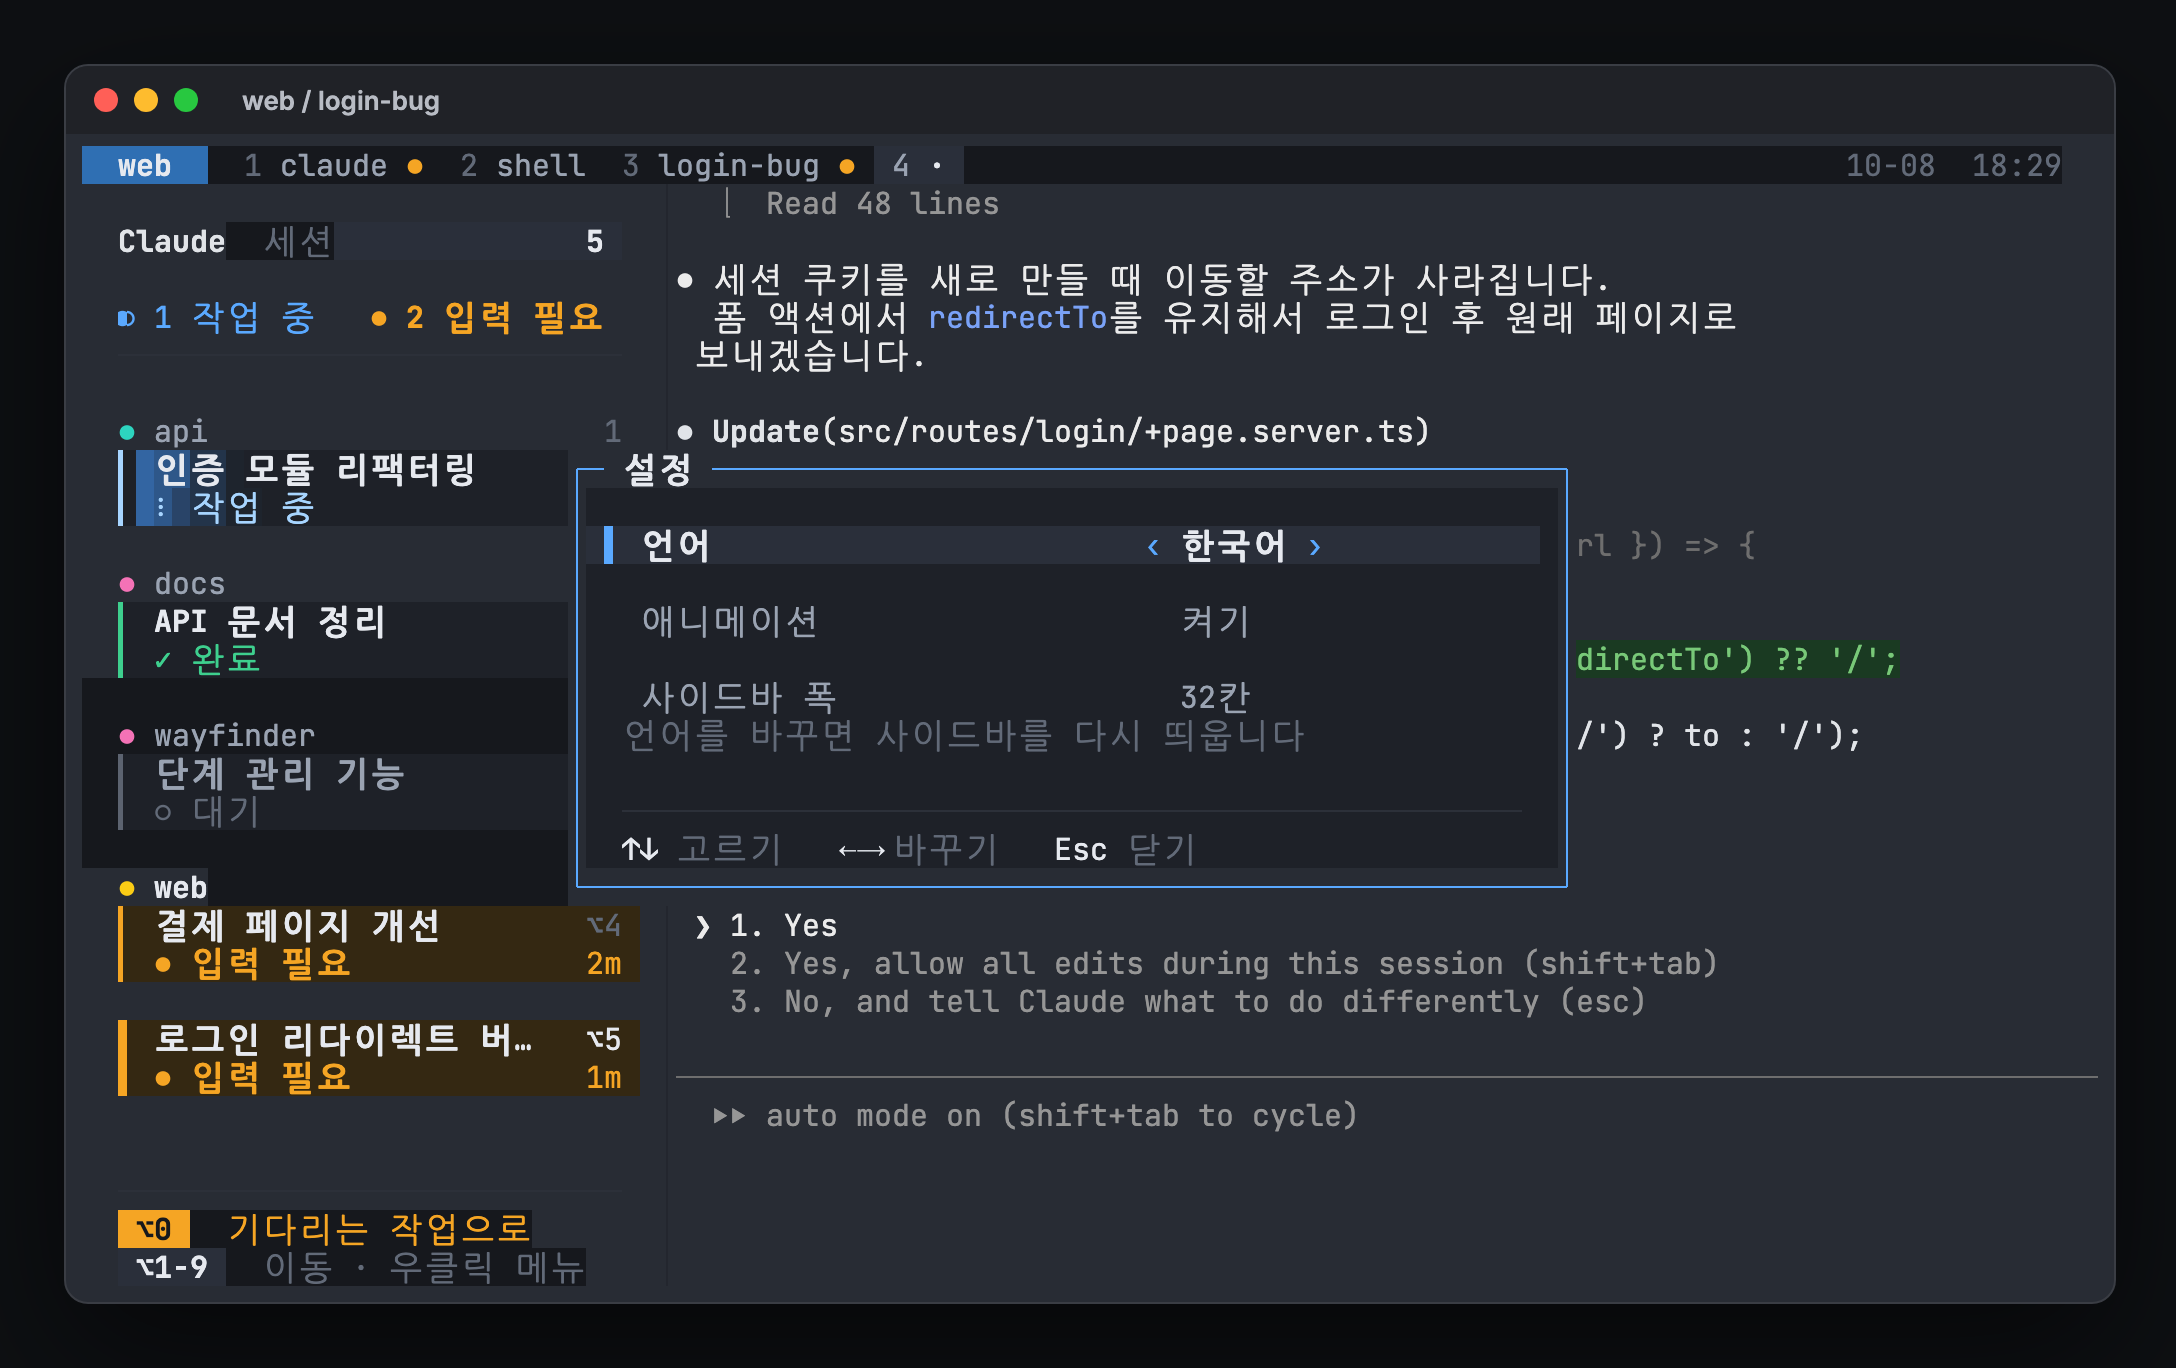
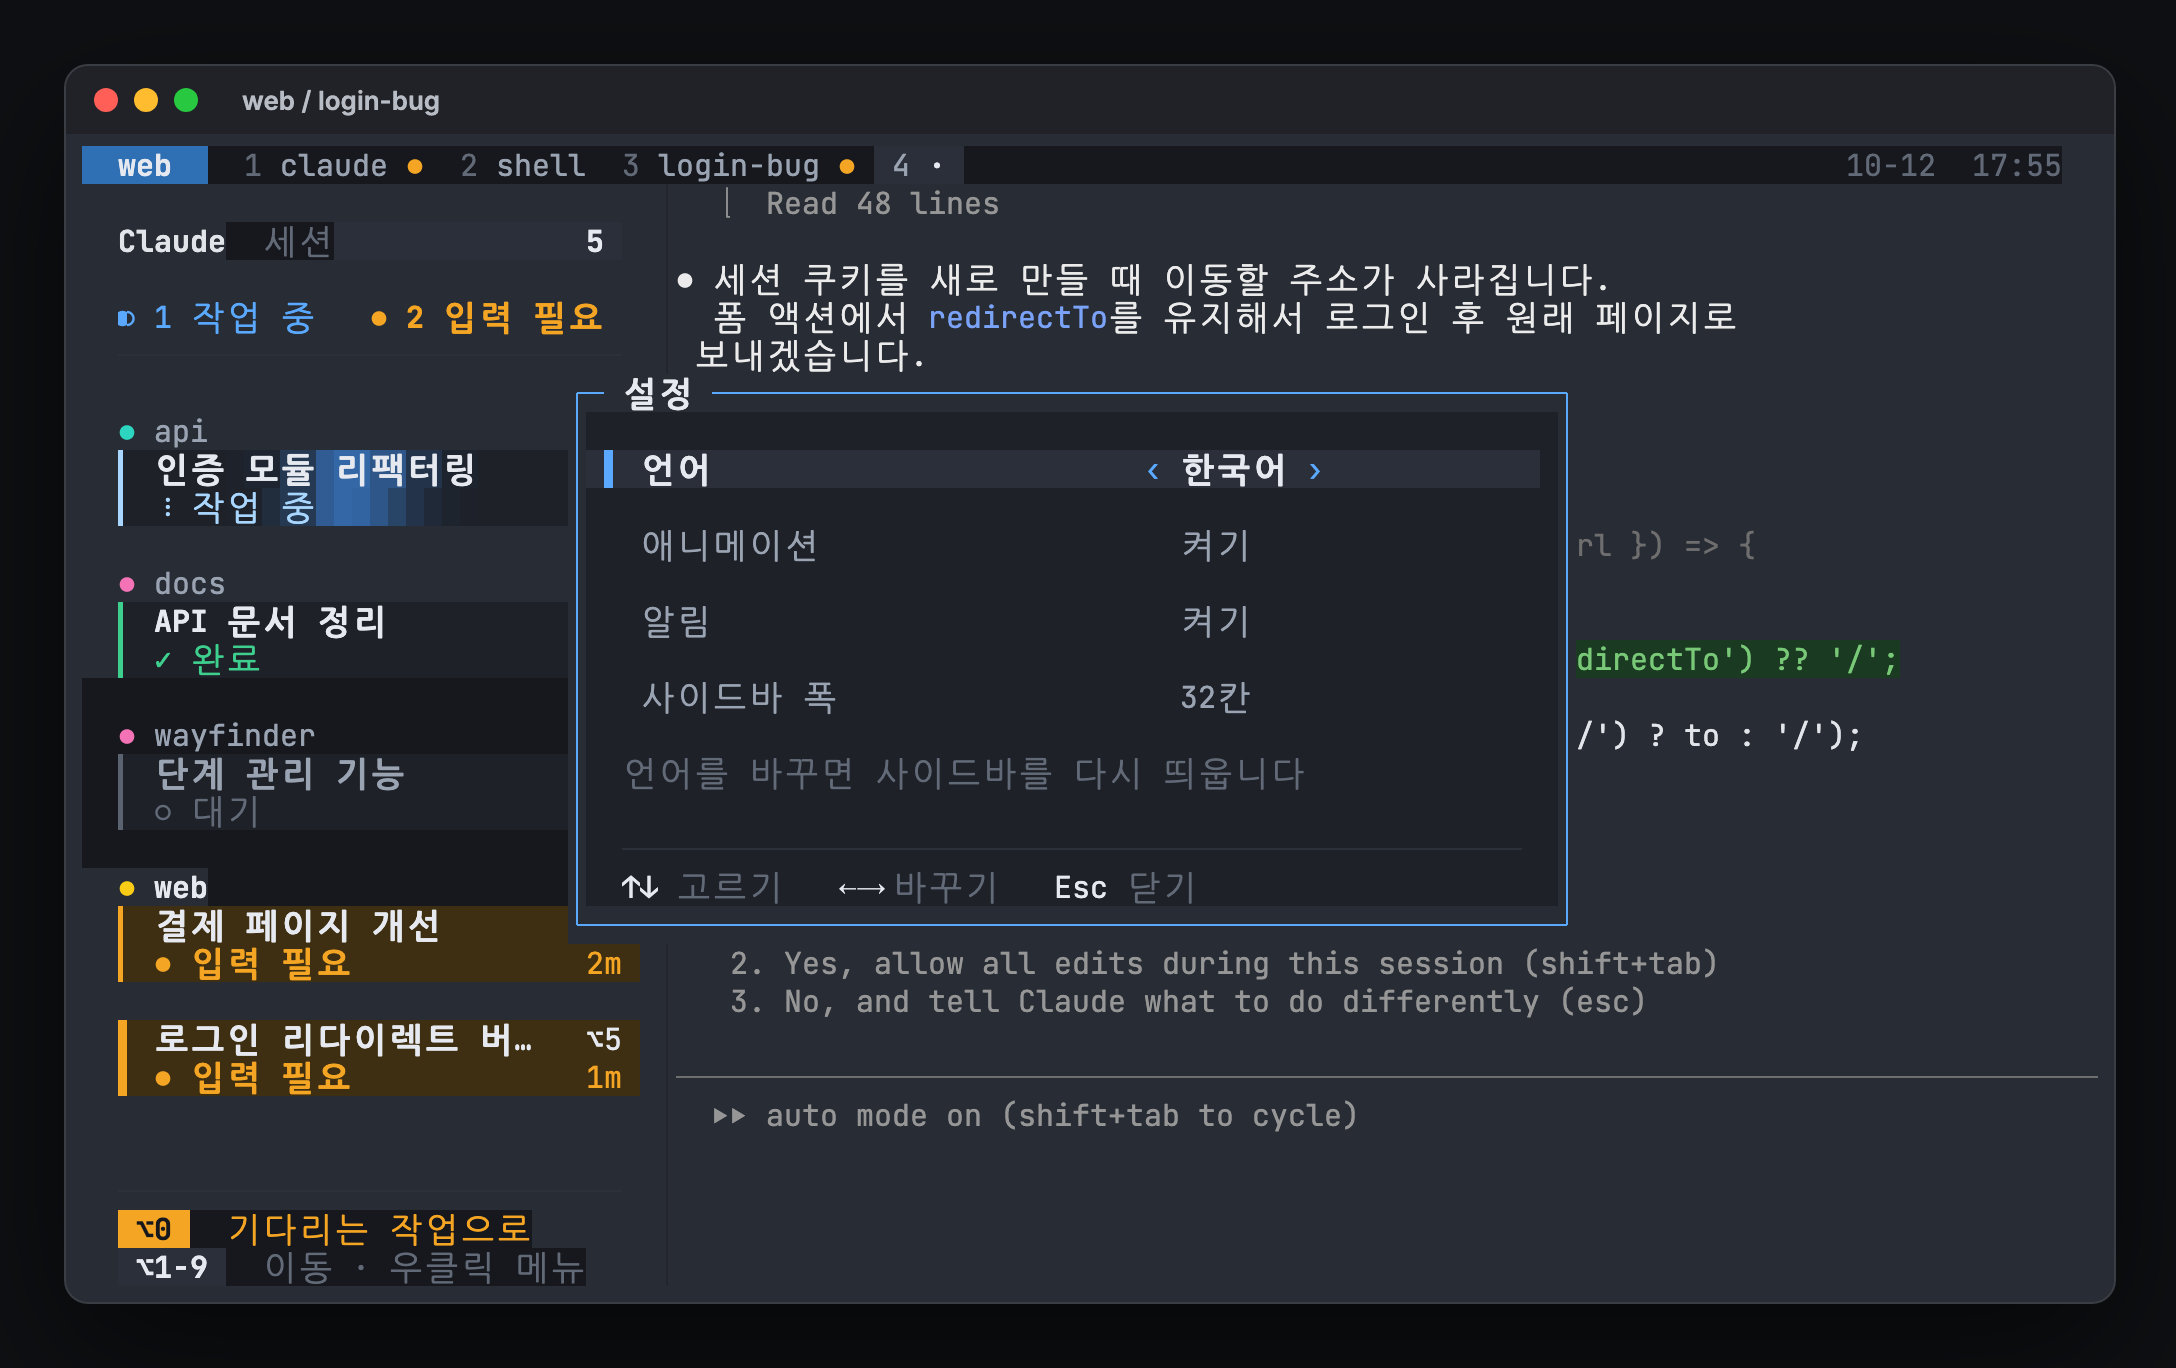
Desktop notifications when a task needs input or finishes
The sidebar on screen sends OSC 777 through tmux passthrough, so the
terminal showing it (also over ssh) raises a macOS notification. Tasks in
a window you are looking at are left out. Settings gets an on/off row.

Claude-Session: https://claude.ai/code/session_012xQmmR8ivhkZoqBh8nTTB9

diff --git a/docs/guide.html b/docs/guide.html
@@ -495,7 +495,7 @@ claude -c
       <div class="key"><span class="combo">카드 더블클릭</span><span class="d">작업 이름 바꾸기</span></div>
       <div class="key"><span class="combo">오른쪽 클릭</span><span class="d">메뉴. 작업 카드: 이동, 이름 바꾸기, 위로 / 아래로 옮기기, 이 프로젝트에 새 Claude, 새 프로젝트. 프로젝트 이름 줄: 이름 바꾸기, 새 Claude, 새 프로젝트. 빈 곳: 새 프로젝트. 모든 메뉴 맨 아래에 설정. 마우스를 올리면 강조되고 클릭하면 실행. <kbd>↑</kbd> <kbd>↓</kbd>와 <kbd>Enter</kbd>, 괄호 안 글자로도 고름. <kbd>Esc</kbd>나 바깥 클릭으로 닫힘</span></div>
       <div class="key"><span class="combo">메뉴 → 새 프로젝트</span><span class="d">가운데 폴더 탐색 창이 열림. <kbd>Enter</kbd>는 고른 폴더에서 <code>hm</code>처럼 시작, <kbd>→</kbd> / <kbd>←</kbd>는 폴더 안 / 상위로, 글자를 치면 걸러 보기 (<code>.</code>으로 시작하면 숨김 폴더도), <kbd>Ctrl</kbd>+<kbd>N</kbd>은 새 폴더</span></div>
-      <div class="key"><span class="combo">메뉴 → 설정</span><span class="d">언어 (한국어 / English), 애니메이션 켜기 / 끄기, 사이드바 폭. 바꾸면 바로 적용되고 <code>~/.local/share/hivemux</code>에 저장되어 재시작 뒤에도 유지됨. 언어를 바꾸면 사이드바를 다시 띄움</span></div>
+      <div class="key"><span class="combo">메뉴 → 설정</span><span class="d">언어 (한국어 / English), 애니메이션 켜기 / 끄기, 알림 켜기 / 끄기, 사이드바 폭. 바꾸면 바로 적용되고 <code>~/.local/share/hivemux</code>에 저장되어 재시작 뒤에도 유지됨. 언어를 바꾸면 사이드바를 다시 띄움</span></div>
       <div class="key"><span class="combo">카드 / 프로젝트 이름 줄 끌기</span><span class="d">작업 순서 / 프로젝트 순서 바꾸기. 놓을 자리가 파랗게 표시되고, <kbd>⌥</kbd>+숫자 번호와 맨 위 창 목록도 같은 순서를 따름. 작업은 같은 프로젝트 안에서만 옮겨짐</span></div>
       <div class="key"><span class="combo"><kbd>Ctrl</kbd>+<kbd>A</kbd> → <kbd>Shift</kbd>+<kbd>↑</kbd> / <kbd>↓</kbd></span><span class="d">지금 작업을 한 칸 위 / 아래로. 프로젝트 끝이면 프로젝트 전체가 움직임</span></div>
       <div class="key"><span class="combo">핸들 막대 끌기</span><span class="d">핸들 막대나 경계선을 끌어 사이드바 폭 바꾸기. 모든 창에 맞추고 저장</span></div>
@@ -507,7 +507,7 @@ claude -c
       <figure><a href="img/menu-empty-ko.png"><img src="img/menu-empty-ko.png" alt="빈 곳 메뉴" width="1088" height="682" loading="lazy"></a><figcaption>빈 곳 오른쪽 클릭: 새 프로젝트와 설정</figcaption></figure>
       <figure><a href="img/reorder-ko.png"><img src="img/reorder-ko.png" alt="카드 끌어서 순서 바꾸기" width="1088" height="682" loading="lazy"></a><figcaption>카드 끌기: 놓을 자리가 파랗게, 끄는 카드는 흐리게</figcaption></figure>
       <figure><a href="img/new-project-ko.png"><img src="img/new-project-ko.png" alt="새 프로젝트 폴더 탐색 창" width="1088" height="682" loading="lazy"></a><figcaption>메뉴 → 새 프로젝트: 폴더 탐색 창. 이미 열린 프로젝트에 "열린 세션" 표시</figcaption></figure>
-      <figure><a href="img/settings-ko.png"><img src="img/settings-ko.png" alt="설정 창" width="1088" height="682" loading="lazy"></a><figcaption>메뉴 → 설정: 언어, 애니메이션, 사이드바 폭</figcaption></figure>
+      <figure><a href="img/settings-ko.png"><img src="img/settings-ko.png" alt="설정 창" width="1088" height="682" loading="lazy"></a><figcaption>메뉴 → 설정: 언어, 애니메이션, 알림, 사이드바 폭</figcaption></figure>
     </div>
     <h3>파일 경로 열기</h3>
     <div class="keys">
@@ -640,6 +640,9 @@ tmux set-environment -g HIVEMUX_NO_RESUME 1</pre></div>
     <details class="issue" data-c="phone"><summary>폰으로 알림이 안 온다<span class="pill part tag">폰</span></summary><div class="body">
       <p><code>/config</code>에서 푸시 항목을 켰는지 보세요. No mobile registered가 보이면 폰에서 Claude 앱을 한 번 여세요. iOS 집중 모드가 알림을 막을 수도 있습니다. 터미널을 보고 있는 동안에는 일부러 보내지 않습니다.</p>
     </div></details>
+    <details class="issue" data-c="term"><summary>작업이 끝나도 알림이 뜨지 않는다<span class="pill part tag">터미널</span></summary><div class="body">
+      <p>지금 보고 있는 창의 작업은 알리지 않습니다. 터미널을 뒤로 보내거나 다른 창에 있을 때만 뜹니다. 사이드바 오른쪽 클릭 메뉴 → <b>설정</b>에서 알림이 <b>켜기</b>인지, 시스템 설정 → 알림에서 Ghostty(쓰는 터미널)가 허용돼 있는지 확인하세요. 알림은 터미널 알림 신호(OSC 777)로 보내므로 Ghostty처럼 이를 지원하는 터미널에서 뜹니다. 알림은 사이드바가 보내므로, 사이드바를 숨기면(<kbd>Ctrl</kbd>+<kbd>A</kbd> 다음 <kbd>b</kbd>) 알림도 오지 않습니다.</p>
+    </div></details>
     <details class="issue" data-c="term"><summary>사이드바에 Claude가 안 보이거나 상태가 늦게 바뀐다<span class="pill part tag">터미널</span></summary><div class="body">
       <p>사이드바는 Claude 훅이 기록한 값을 1초마다 읽습니다. 사이드바 기능을 넣기 전에 시작한 Claude는 다음 프롬프트를 보내거나 도구를 실행하면 나타납니다. tmux 밖에서 실행한 Claude는 표시되지 않습니다.</p>
       <div class="code"><button class="copy" type="button">복사</button><pre><span class="cmt"># 사이드바 내용을 글자로 보기</span>
@@ -756,7 +759,7 @@ hivemux uninstall</pre></div>
     <div><code>hivemux-agents</code><span>Option+번호 이동, 기다리는 작업으로 이동, 목록 출력</span></div>
     <div><code>hivemux-rename</code>, <code>hivemux-rename-ui</code><span>작업 이름 바꾸기 팝업과 /rename 전달</span></div>
     <div><code>hivemux-new-project-ui</code><span>새 프로젝트 폴더 탐색 팝업</span></div>
-    <div><code>hivemux-settings</code>, <code>hivemux-settings-ui</code><span>설정 팝업 (언어, 애니메이션, 사이드바 폭)</span></div>
+    <div><code>hivemux-settings</code>, <code>hivemux-settings-ui</code><span>설정 팝업 (언어, 애니메이션, 알림, 사이드바 폭)</span></div>
     <div><code>hivemux-modal</code><span>화면을 멈춘 사본 위에 팝업 띄우기</span></div>
     <div><code>hivemux-order</code><span>사이드바 작업 / 프로젝트 순서 바꾸기</span></div>
     <div><code>hivemux-open</code>, <code>hivemux-open-ui</code><span>Option+O 경로 열기 팝업</span></div>

diff --git a/docs/guide.en.html b/docs/guide.en.html
@@ -485,7 +485,7 @@ claude -c
       <div class="key"><span class="combo">Double-click a card</span><span class="d">Rename the task</span></div>
       <div class="key"><span class="combo">Right click</span><span class="d">Menu. On a task: go to, rename, move up / down, new Claude in this project, new project. On a project name: rename, new Claude, new project. On empty space: new project. Every menu ends with Settings. Hover highlights, a click runs; <kbd>↑</kbd> <kbd>↓</kbd> and <kbd>Enter</kbd> or the letter shown also choose. <kbd>Esc</kbd> or a click outside closes it</span></div>
       <div class="key"><span class="combo">Menu → New project</span><span class="d">A folder browser opens in the middle. <kbd>Enter</kbd> starts in the selected folder like <code>hm</code>, <kbd>→</kbd> / <kbd>←</kbd> move in and out, typing filters (start with <code>.</code> for hidden folders), <kbd>Ctrl</kbd>+<kbd>N</kbd> makes a new folder</span></div>
-      <div class="key"><span class="combo">Menu → Settings</span><span class="d">Language (한국어 / English), animation on / off, sidebar width. Applied at once and saved in <code>~/.local/share/hivemux</code>, so they survive restarts. Changing the language restarts the sidebars</span></div>
+      <div class="key"><span class="combo">Menu → Settings</span><span class="d">Language (한국어 / English), animation on / off, notifications on / off, sidebar width. Applied at once and saved in <code>~/.local/share/hivemux</code>, so they survive restarts. Changing the language restarts the sidebars</span></div>
       <div class="key"><span class="combo">Drag a card / project header</span><span class="d">Reorder tasks / projects. The drop target turns blue; <kbd>⌥</kbd>+number and the top window list follow the same order. A task moves only within its project</span></div>
       <div class="key"><span class="combo"><kbd>Ctrl</kbd>+<kbd>A</kbd> → <kbd>Shift</kbd>+<kbd>↑</kbd> / <kbd>↓</kbd></span><span class="d">Move the current task up / down one step; at a project's edge the whole project moves</span></div>
       <div class="key"><span class="combo">Drag the grip</span><span class="d">Drag the grip bar or the border to resize the sidebar; applied to all windows and saved</span></div>
@@ -497,7 +497,7 @@ claude -c
       <figure><a href="img/menu-empty-en.png"><img src="img/menu-empty-en.png" alt="Empty-space menu" width="1088" height="682" loading="lazy"></a><figcaption>Right click on empty space: new project and settings</figcaption></figure>
       <figure><a href="img/reorder-en.png"><img src="img/reorder-en.png" alt="Dragging a card to reorder" width="1088" height="682" loading="lazy"></a><figcaption>Dragging a card: the drop target turns blue, the dragged card dims</figcaption></figure>
       <figure><a href="img/new-project-en.png"><img src="img/new-project-en.png" alt="New project folder browser" width="1088" height="682" loading="lazy"></a><figcaption>Menu → New project: the folder browser; projects already open are marked "open"</figcaption></figure>
-      <figure><a href="img/settings-en.png"><img src="img/settings-en.png" alt="Settings popup" width="1088" height="682" loading="lazy"></a><figcaption>Menu → Settings: language, animation, sidebar width</figcaption></figure>
+      <figure><a href="img/settings-en.png"><img src="img/settings-en.png" alt="Settings popup" width="1088" height="682" loading="lazy"></a><figcaption>Menu → Settings: language, animation, notifications, sidebar width</figcaption></figure>
     </div>
     <h3>Open file paths</h3>
     <div class="keys">
@@ -631,6 +631,9 @@ tmux set-environment -g HIVEMUX_NO_RESUME 1</pre></div>
     <details class="issue" data-c="phone"><summary>No push notifications on the phone<span class="pill part tag">Phone</span></summary><div class="body">
       <p>Check the push settings in <code>/config</code>. If it says No mobile registered, open the Claude app on the phone once. iOS Focus modes can block notifications. Pushes are skipped while you are looking at the terminal.</p>
     </div></details>
+    <details class="issue" data-c="term"><summary>No notification when a task finishes<span class="pill part tag">Terminal</span></summary><div class="body">
+      <p>A task in the window you are looking at is not announced; notifications come when the terminal is in the background or you are in another window. Check that Notifications is <b>on</b> in the sidebar's right-click menu → <b>Settings</b>, and that Ghostty (your terminal) is allowed in System Settings → Notifications. They are sent as a terminal notification (OSC 777), so they show in terminals that support it, such as Ghostty. The sidebars send them, so with the sidebars hidden (<kbd>Ctrl</kbd>+<kbd>A</kbd> then <kbd>b</kbd>) none come.</p>
+    </div></details>
     <details class="issue" data-c="term"><summary>A Claude is missing from the sidebar, or its state updates late<span class="pill part tag">Terminal</span></summary><div class="body">
       <p>The sidebar reads what the Claude hooks recorded, once a second. A Claude started before hivemux was installed appears after its next prompt or tool call. Claude running outside tmux is not shown.</p>
       <div class="code"><button class="copy" type="button">Copy</button><pre><span class="cmt"># print the sidebar contents as text</span>
@@ -747,7 +750,7 @@ hivemux uninstall</pre></div>
     <div><code>hivemux-agents</code><span>Option+number jumps, jump to waiting, list output</span></div>
     <div><code>hivemux-rename</code>, <code>hivemux-rename-ui</code><span>Rename popup and sending /rename</span></div>
     <div><code>hivemux-new-project-ui</code><span>New-project folder browser popup</span></div>
-    <div><code>hivemux-settings</code>, <code>hivemux-settings-ui</code><span>Settings popup (language, animation, sidebar width)</span></div>
+    <div><code>hivemux-settings</code>, <code>hivemux-settings-ui</code><span>Settings popup (language, animation, notifications, sidebar width)</span></div>
     <div><code>hivemux-modal</code><span>Opens a popup over a still copy of the screen</span></div>
     <div><code>hivemux-order</code><span>Sidebar task / project order</span></div>
     <div><code>hivemux-open</code>, <code>hivemux-open-ui</code><span>Option+O open-path popup</span></div>

diff --git a/README.md b/README.md
@@ -18,6 +18,8 @@ reboot the Mac and everything comes back, with each Claude resumed in its pane.
 
 - **One board for every session.** Cards grouped by project, with live state and
   elapsed time. Running cards glow, waiting cards pulse amber.
+- **Notifications.** A macOS notification when a task needs input or finishes,
+  except the one you are looking at. Turn it off in Settings.
 - **Jump anywhere.** `Option+1..9`, `Option+0` (oldest waiting), or click a card.
 - **Task names.** Shows Claude's own conversation title. Double-click a card
   (or right-click → Rename) to rename it; hivemux sends `/rename` to that Claude (waits if it is busy).
@@ -102,7 +104,7 @@ new hooks once restarted. `hivemux version` shows the installed version; see
 | click card | jump · double click: rename |
 | right click | menu. On a task: go to, rename, move up/down, new Claude, new project. On a project name: rename, new Claude, new project. On empty space: new project. Every menu ends with Settings. Choose with the mouse, `↑↓` `Enter` or the letter shown; `Esc` closes |
 | menu → New project | folder browser in the middle: `Enter` starts the selected folder (like `hm`), `→` / `←` in and out, type to filter, `Ctrl+N` new folder |
-| menu → Settings | language (한국어 / English), animation, sidebar width; applied at once and saved |
+| menu → Settings | language (한국어 / English), animation, notifications, sidebar width; applied at once and saved |
 | drag card / project header | reorder tasks / projects |
 | `prefix Shift+↑` / `↓` | move the current task up / down (at a project's edge, the project moves) |
 | `Option+O` | open a file path from recent output (Enter VS Code, Tab default app, ^F Finder, ^Y copy) |

diff --git a/CHANGELOG.md b/CHANGELOG.md
@@ -1,5 +1,13 @@
 # Changelog
 
+## Unreleased
+
+- Desktop notifications: a macOS notification when a task needs input or
+  finishes, except the one you are looking at (window on screen, terminal
+  focused). Sent by the sidebar through tmux as OSC 777, so it also reaches a
+  terminal attached over ssh. Turn it off in Settings (saved in `notify`)
+- Screenshots updated for the new Settings row
+
 ## 0.1.8 — 2026-10-12
 
 - Rename a project from the sidebar: right-click a project name → Rename. It
